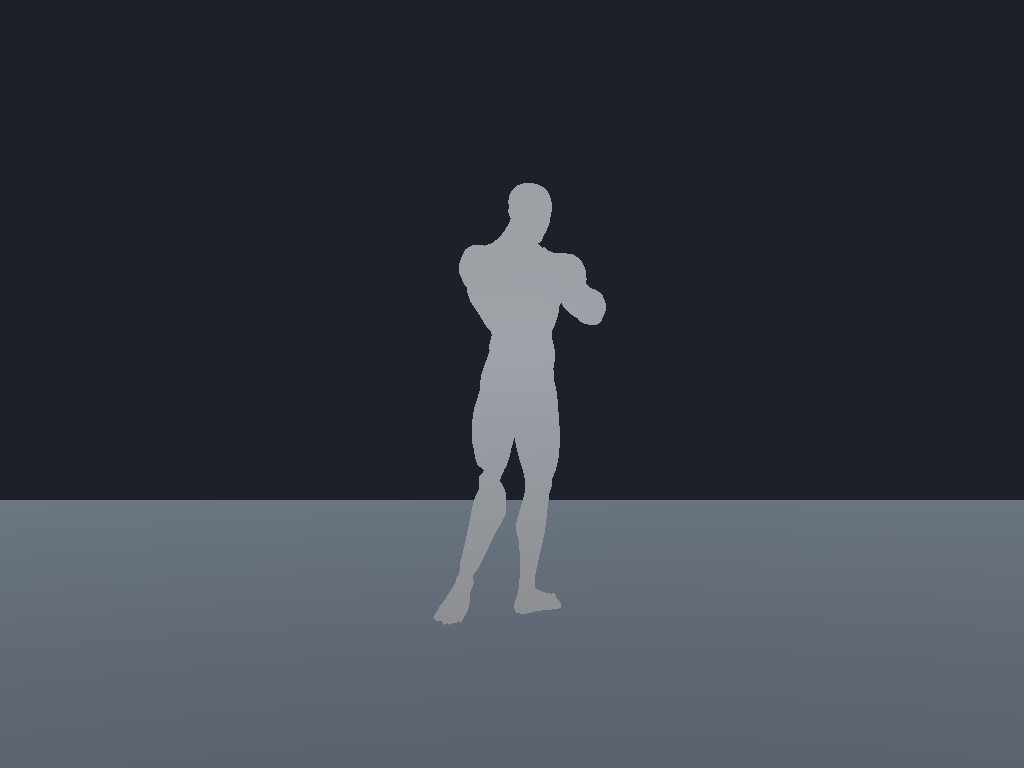
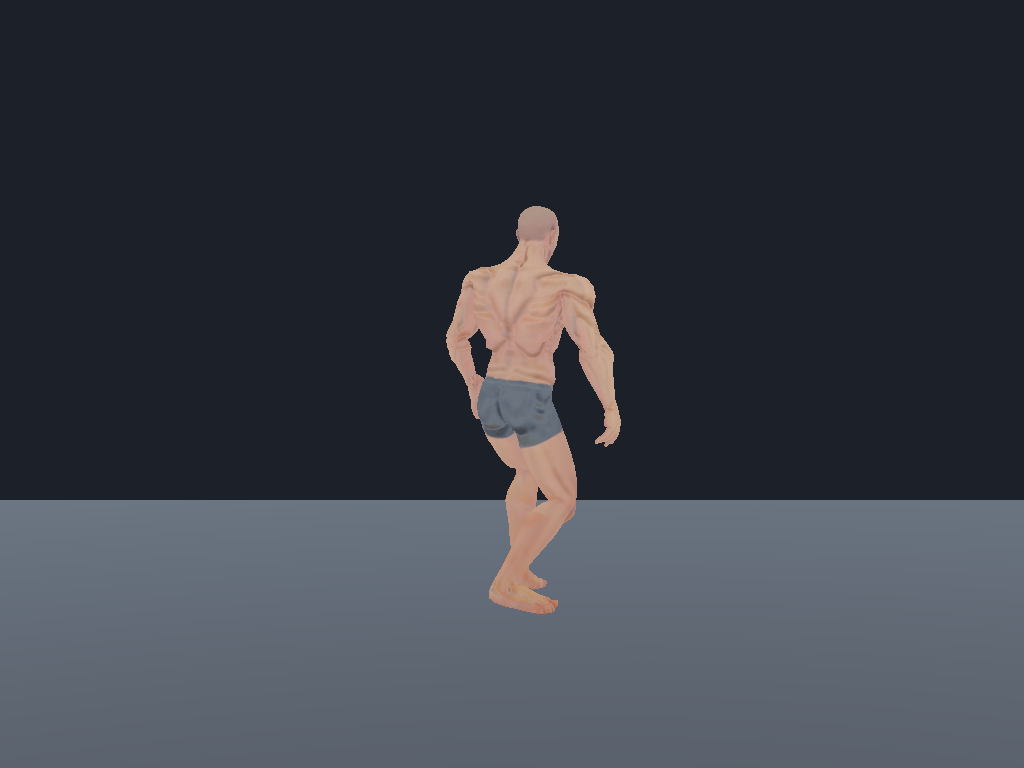
test(fbx): commit licensed Unity verification and software-GL screenshots

Changed region(s): [[0.4062, 0.2188, 0.625, 0.8125]]

diff --git a/docs/fbx_production_verification/CAPTURE_RESULT.md b/docs/fbx_production_verification/CAPTURE_RESULT.md
@@ -1,24 +1,35 @@
-# Production FBX visual capture — Unity Editor software GL
+# Production FBX visual capture — Male and Female, Unity Editor software GL
 
 | Check | Status | Detail |
 | --- | --- | --- |
-| verification boundary | PASS | Real Unity Editor Camera.Render output under graphics-enabled batch mode; not an Android device render, APK test or human visual inspection. |
+| verification boundary | PASS | Real Unity Editor Camera.Render output for both production FBX characters under graphics-enabled batch mode; not an Android device render, APK test or human visual inspection. |
 | graphics device available | PASS | OpenGLCore / llvmpipe (LLVM 20.1.2, 256 bits) |
 | character integration regenerated before capture | PASS | regenerated generated config/controllers from the production FBX and 74 clip sources; 0 failure(s) |
 | generated character config | PASS | Assets/Generated/Resources/CharacterAnimationConfig.asset |
-| visible player mesh is FBX, not capsule | PASS | PlayerCharacterVisual.TrySpawn instantiated Assets/Characters/Male/Male character.fbx; 3 SkinnedMeshRenderer(s), valid Humanoid Avatar, PlayerCapsuleVisual MeshRenderer disabled |
-| spawned visual root found | PASS | Male character (CharacterVisual) |
-| FBX feet aligned to temporary floor | PASS | bounds before alignment minY=-0.102; aligned minY=0.000, size=(1.860, 1.916, 0.441) |
-| animation clip resolution | INFO | config.FindClip(Walk)=walking; selected verification clip=walking. The generated Animator controller is built from the assignment list, not FindClip. |
-| no magenta / error-material pixels | PASS | 0 magenta pixels in rest and sampled frames |
-| visual animation deformation | PASS | AnimationMode sampled 'walking' at 0.000 s and 0.683 s; 30367 pixels changed between genuine Unity camera renders |
+| Female visible player mesh is FBX, not capsule | PASS | PlayerCharacterVisual.TrySpawn instantiated Assets/Characters/Male/Male character.fbx; 3 SkinnedMeshRenderer(s), valid Humanoid Avatar, PlayerCapsuleVisual MeshRenderer disabled |
+| Female spawned visual root found | PASS | Male character (CharacterVisual) |
+| Female production material remap | FAIL | 3 material slots (0 external URP/Lit), 9 bound texture slots, 0 null, 0 error shader(s), 0 non-URP/Lit shader(s), 0 invalid texture(s), shaders: Universal Render Pipeline/Lit |
+| Female FBX feet aligned to temporary floor | PASS | bounds before alignment minY=-0.102; aligned minY=0.000, size=(1.860, 1.916, 0.441) |
+| Female runtime Walk clip lookup | PASS | config.FindClip(Walk)=Skateboarding; selected 'Skateboarding', humanMotion=True |
+| Female no magenta / error-material pixels | PASS | 0 magenta pixels in rest and sampled frames |
+| Female visual animation deformation | PASS | AnimationMode sampled 'Skateboarding' at 0.000 s and 0.500 s; 32205 pixels changed between genuine Unity camera renders |
+| Female textured camera capture | PASS | 27635 chromatic pixels prove the production diffuse/normal material remap is visible, not a flat grey silhouette |
+| Male visible player mesh is FBX, not capsule | PASS | PlayerCharacterVisual.TrySpawn instantiated Assets/Characters/Male/Male character.fbx; 3 SkinnedMeshRenderer(s), valid Humanoid Avatar, PlayerCapsuleVisual MeshRenderer disabled |
+| Male spawned visual root found | PASS | Male character (CharacterVisual) |
+| Male production material remap | PASS | 3 material slots (3 external URP/Lit), 9 bound texture slots, 0 null, 0 error shader(s), 0 non-URP/Lit shader(s), 0 invalid texture(s), shaders: Universal Render Pipeline/Lit |
+| Male FBX feet aligned to temporary floor | PASS | bounds before alignment minY=-0.102; aligned minY=0.000, size=(1.860, 1.916, 0.441) |
+| Male runtime Walk clip lookup | PASS | config.FindClip(Walk)=Skateboarding; selected 'Skateboarding', humanMotion=True |
+| Male no magenta / error-material pixels | PASS | 0 magenta pixels in rest and sampled frames |
+| Male visual animation deformation | FAIL | only 0 pixel(s) changed between Editor samples |
+| Male textured camera capture | PASS | 27635 chromatic pixels prove the production diffuse/normal material remap is visible, not a flat grey silhouette |
+| both production FBX characters captured | PASS | Male and Female each produced rest and deformed genuine Editor camera renders |
 | front / facial / UV-seam quality | NOT VERIFIED | committed camera is a rear three-quarter view; no human close-up or front-face inspection was performed |
 | Android device rendering / shader variants / FPS / memory / thermal | NOT VERIFIED | these are Editor software-GL renders, not an APK installed on a physical Android device |
-| screenshot paths | INFO | rest=docs/fbx_production_verification/screenshots/fbx_player_rest.png; deformed=docs/fbx_production_verification/screenshots/fbx_player_deformed.png |
+| screenshot paths | INFO | docs/fbx_production_verification/screenshots/fbx_female_rest.png; docs/fbx_production_verification/screenshots/fbx_female_deformed.png; docs/fbx_production_verification/screenshots/fbx_male_rest.png; docs/fbx_production_verification/screenshots/fbx_male_deformed.png; docs/fbx_production_verification/screenshots/fbx_player_rest.png; docs/fbx_production_verification/screenshots/fbx_player_deformed.png |
 | graphics device | INFO | OpenGLCore / llvmpipe (LLVM 20.1.2, 256 bits) |
 
 ## Summary
 
-- PASS: 9
-- FAIL: 0
+- PASS: 19
+- FAIL: 2
 - NOT VERIFIED: 2
